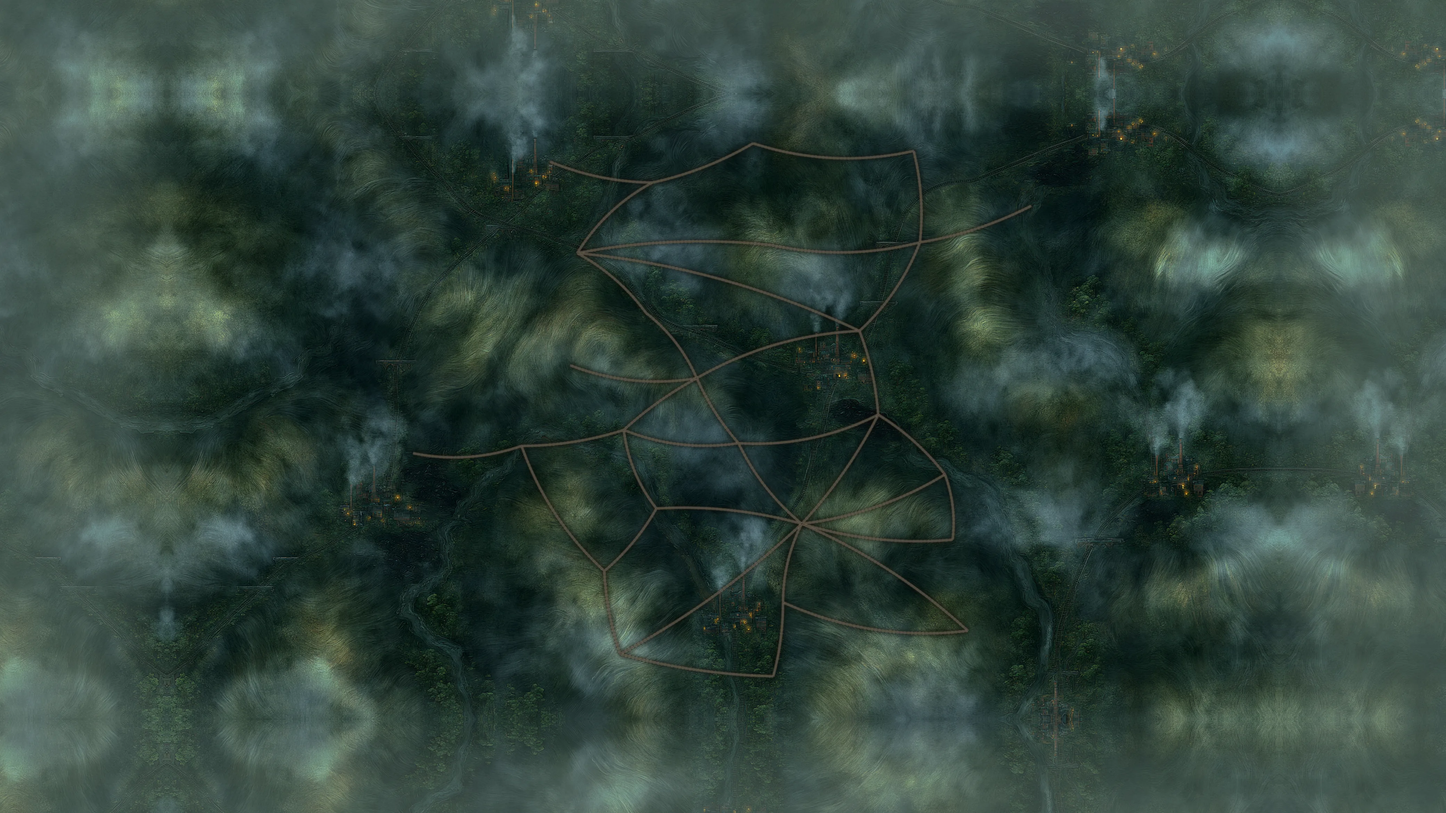
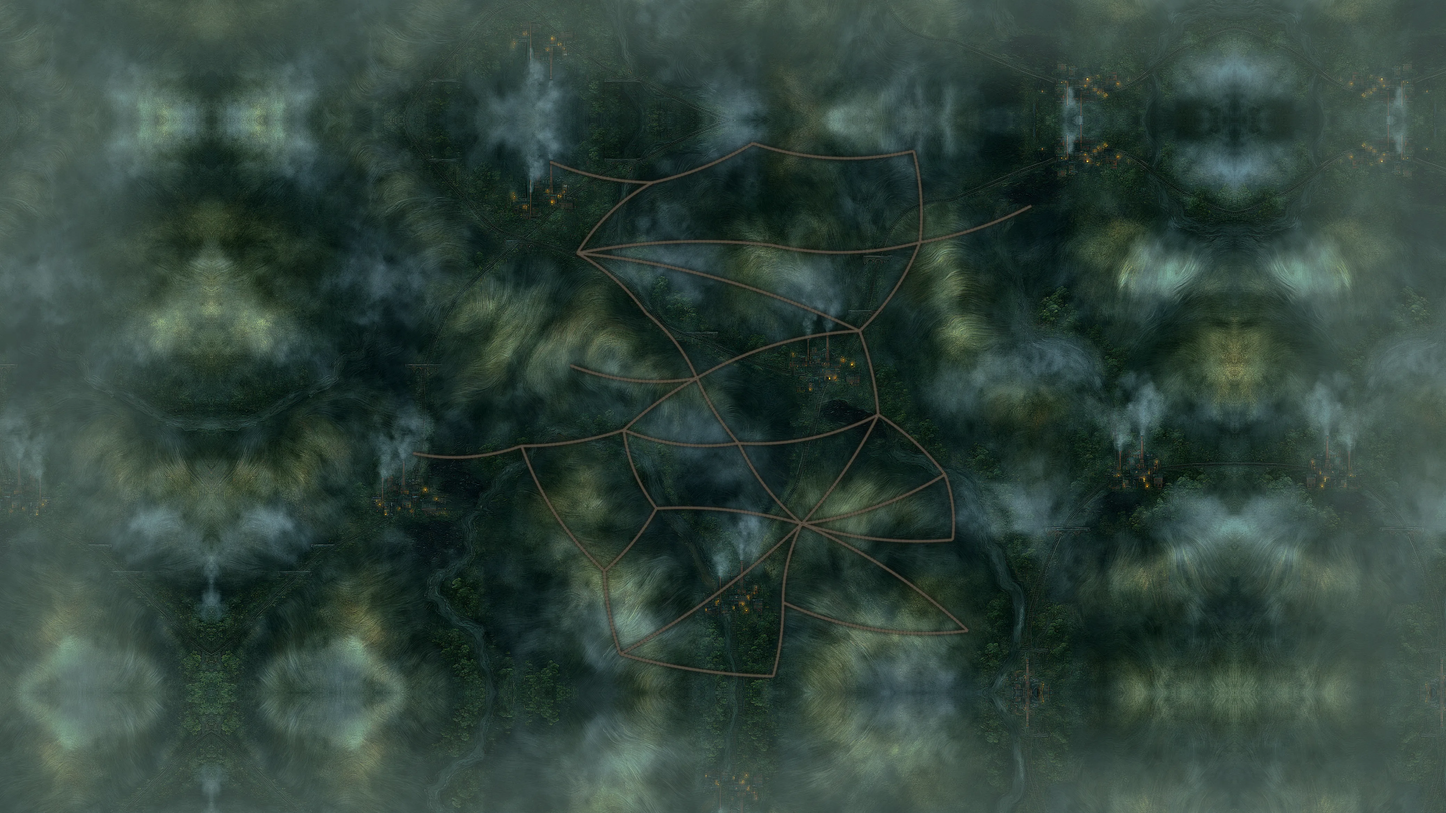
feat(assets): three rail-era paintings, pixels untouched
Two more Midjourney paintings for the rail era, and the composition no
longer resamples: the painting sits at its own size in the middle of
the frame, the bleed mirrored from its edges.

diff --git a/tools/map/README.md b/tools/map/README.md
@@ -15,8 +15,10 @@ Scripts need Playwright's Chromium (`PLAYWRIGHT_BROWSERS_PATH` pointing at a bro
 ## Rail era, painted
 
 The rail-era background is no longer a grade of the canal painting: it is a
-Midjourney painting of the same land under industry (source kept as
-`tools/assets/map/map-era-rail-midjourney.jpg`), composed into the canal
-map's frame by `tools/assets/map/compose-rail.sh <painting> <geo.json>`:
-scaled to cover the world, 15 % mirrored bleed, soft embankments along the
-rail routes, mist in the far edges, served as WebP.
+Midjourney painting of the same land under industry. Three of them are
+served (`map-era-rail.webp`, `-2`, `-3`; the board setting "Rail-era
+painting" picks one), each composed into the canal map's frame by
+`tools/assets/map/compose-rail.sh <painting> <geo.json> [stem]`: the
+painting keeps its own pixels, centred on the world, the rest mirrored from
+its edges to fill the 15 % bleed; rail beds engraved along the rail routes;
+mist in the far edges; served as WebP. Sources stay in `tools/assets/map/`.
